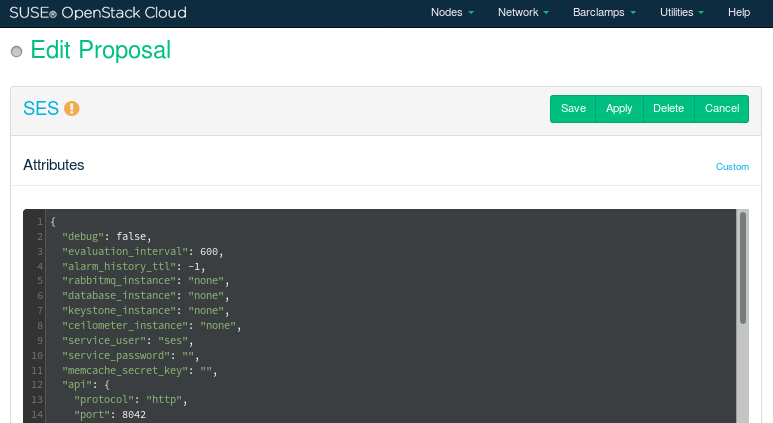
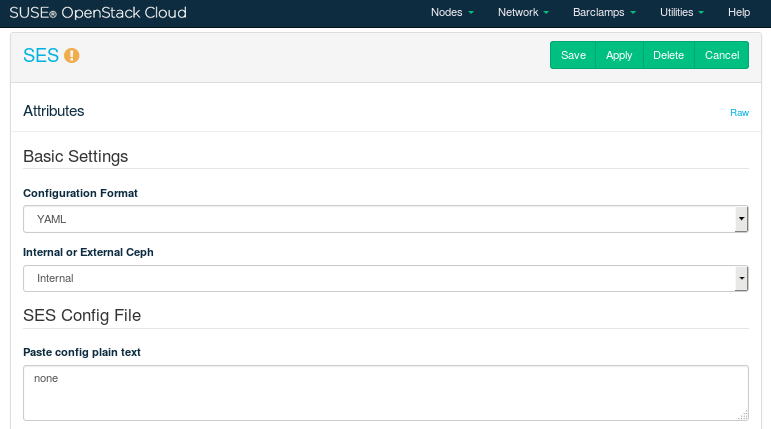
update ses barclamp UI screenshot

diff --git a/README.md b/README.md
@@ -21,19 +21,9 @@ Given an already exported configuration file (from SES 5.5), an administrator fo
 
 4) Automate the setup pieces that are currently missing (generation of ceph.conf & the cephx user credential files)
 
-## Problem
-
-1) Not able to display the attribute select field on propopal edit page as defined in *crowbar_framework/app/views/barclamp/ses/_edit_attributes.html.haml*
-
-Example:
-
-(attribute,option)=(ceph_internal_external,internal/external)
+## Barclamp Edit Page
 
 ![alt text](https://github.com/charleswang007/crowbar-ses/blob/master/chef/cookbooks/ses/files/default/ses-barclamp-edit.png "ses-barclamp-edit.png")
-
-We want to make the attribute section editable with drop-down selection menu like the following:
-
-![alt text](https://github.com/charleswang007/crowbar-ses/blob/master/chef/cookbooks/ses/files/default/glance-barclamp-edit.png "glance-barclamp-edit.png")
 
 ## Usage Example
 
